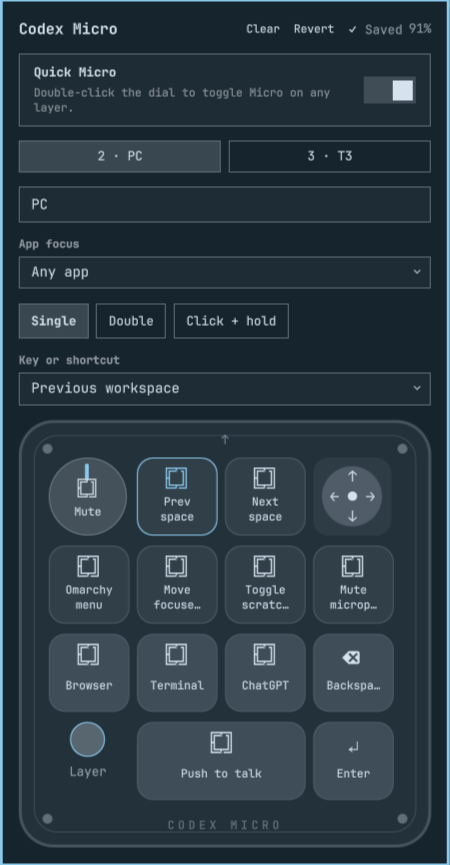
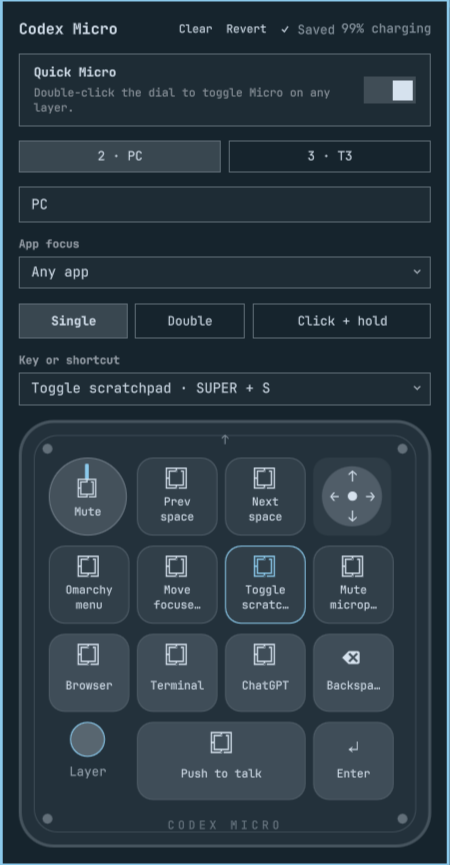
Add launch graphic and refresh editor screenshot

diff --git a/README.md b/README.md
@@ -8,9 +8,10 @@ or explicit commands. Keep your mappings in files you can inspect and version.
 over USB and Bluetooth. Installation on a second machine is not yet verified.
 This is an independent community project, not an official OpenAI product.
 
-![Codex Micro editor](docs/screenshots/editor.png)
+![Codex Micro for Omarchy — keys, shortcuts, and app focus](docs/social/launch.png)
 
-The screenshot shows customized mappings; fresh installs start with portable defaults.
+The launch graphic shows customized mappings; fresh installs start with portable defaults.
+[View the unedited editor screenshot](docs/screenshots/editor.png).
 
 ## Features
 
